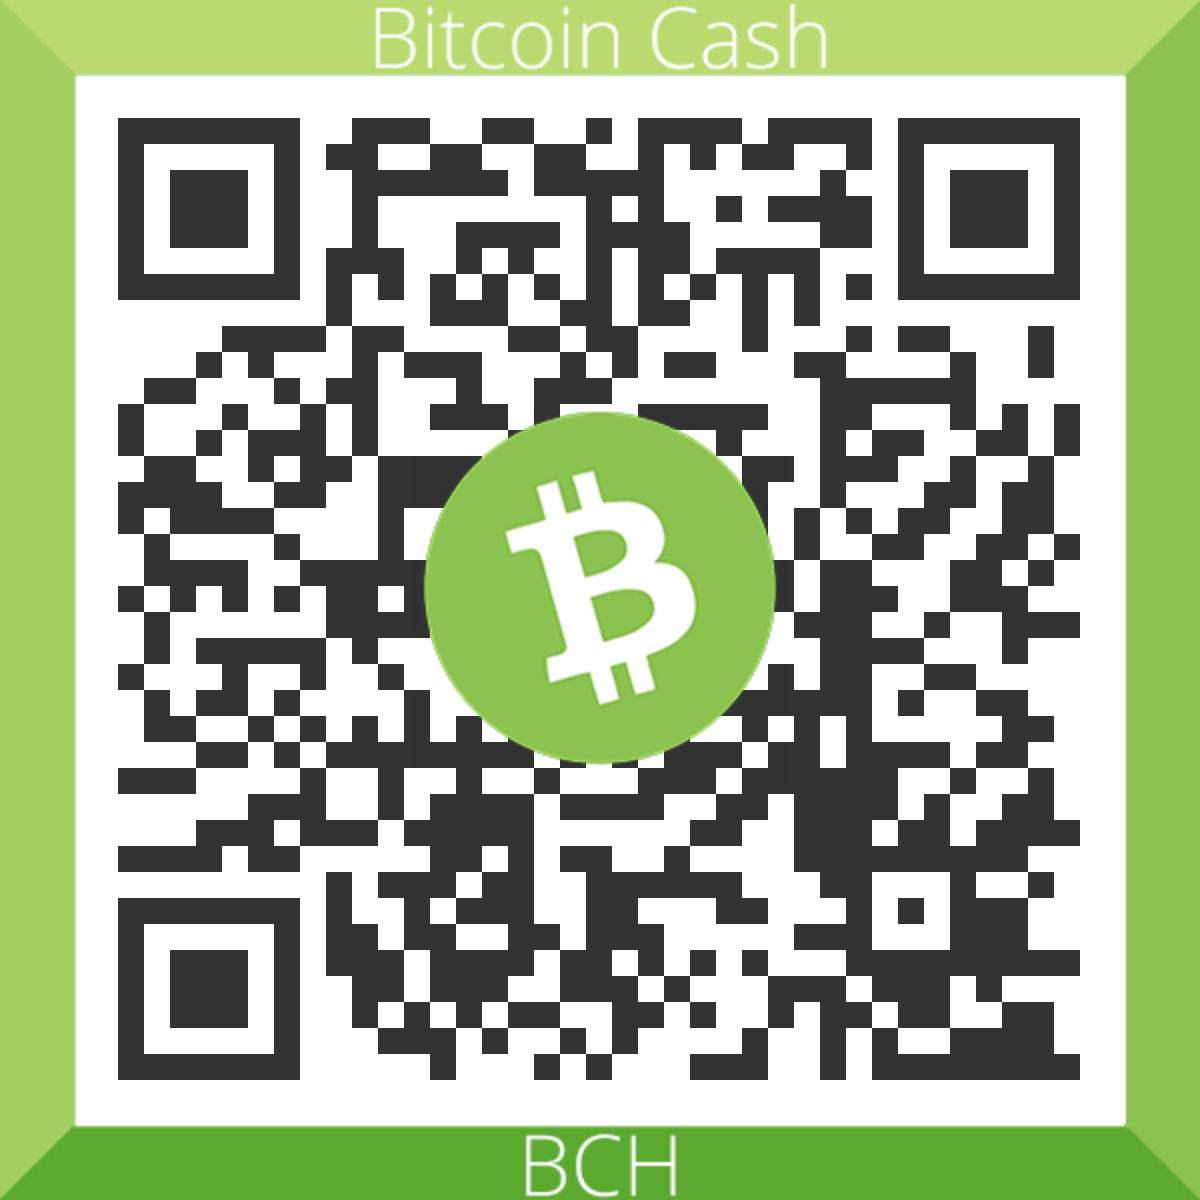
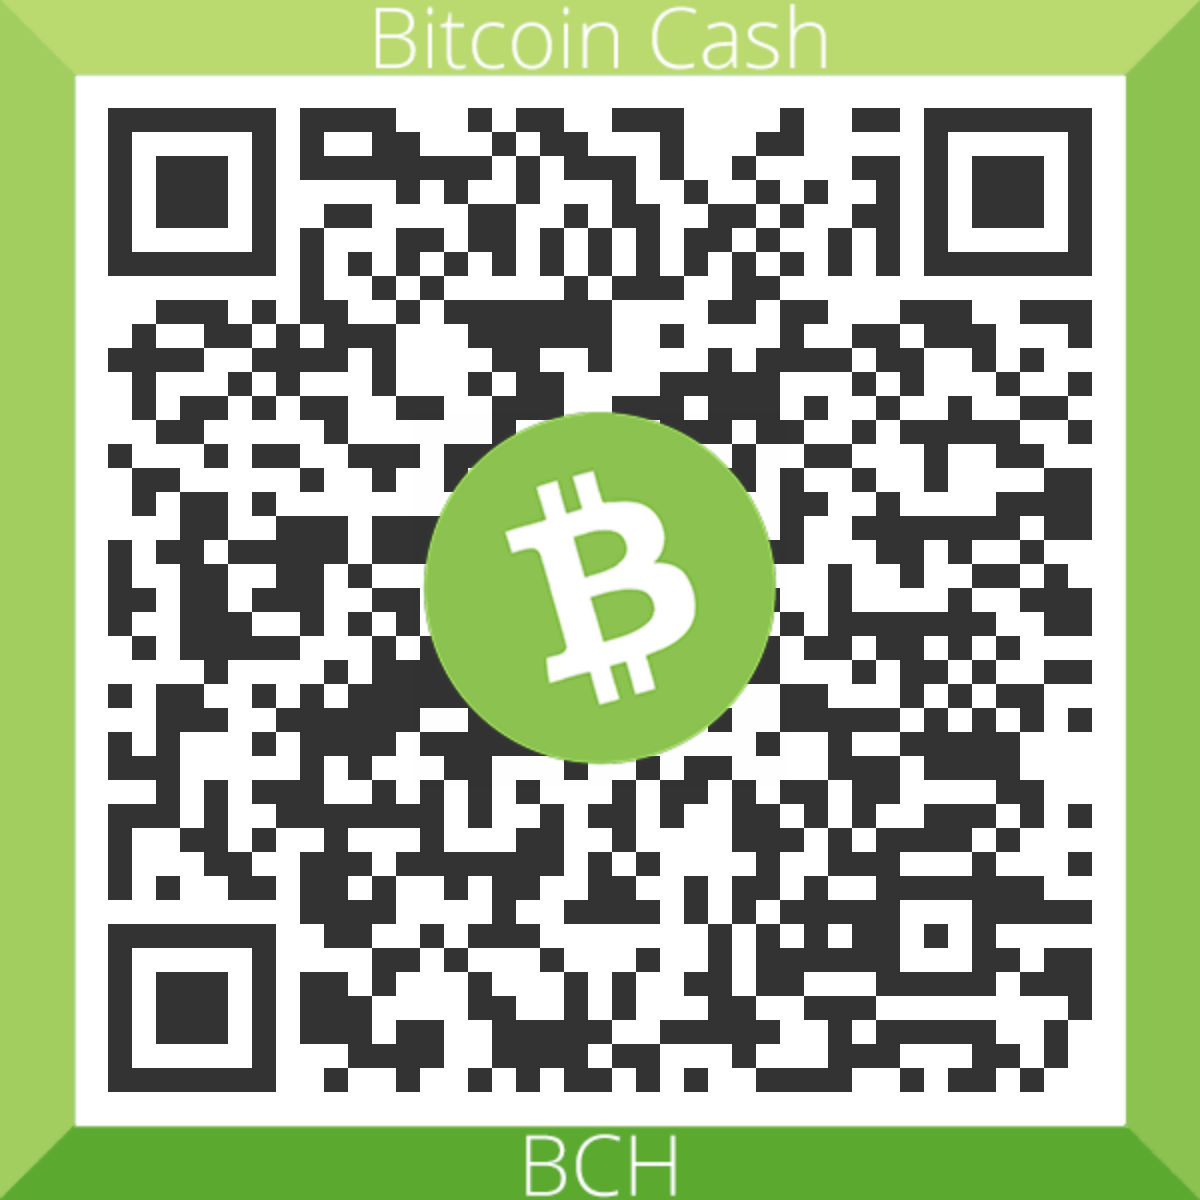
Update donation address.

diff --git a/docusaurus.config.js b/docusaurus.config.js
@@ -2,7 +2,7 @@ const lightCodeTheme = require("prism-react-renderer/themes/github");
 const darkCodeTheme = require("prism-react-renderer/themes/dracula");
 require("dotenv").config();
 
-const bchAddress = "qp09srvhu5p4e6wahea9j3prgqa3dsrcxcq5kmxx9g";
+const bchAddress = "qzhg93jpd3asxr8hgzvle8r9qvsxdcsesq0cpkw25t";
 
 /** @type {import('@docusaurus/types').DocusaurusConfig} */
 module.exports = {
